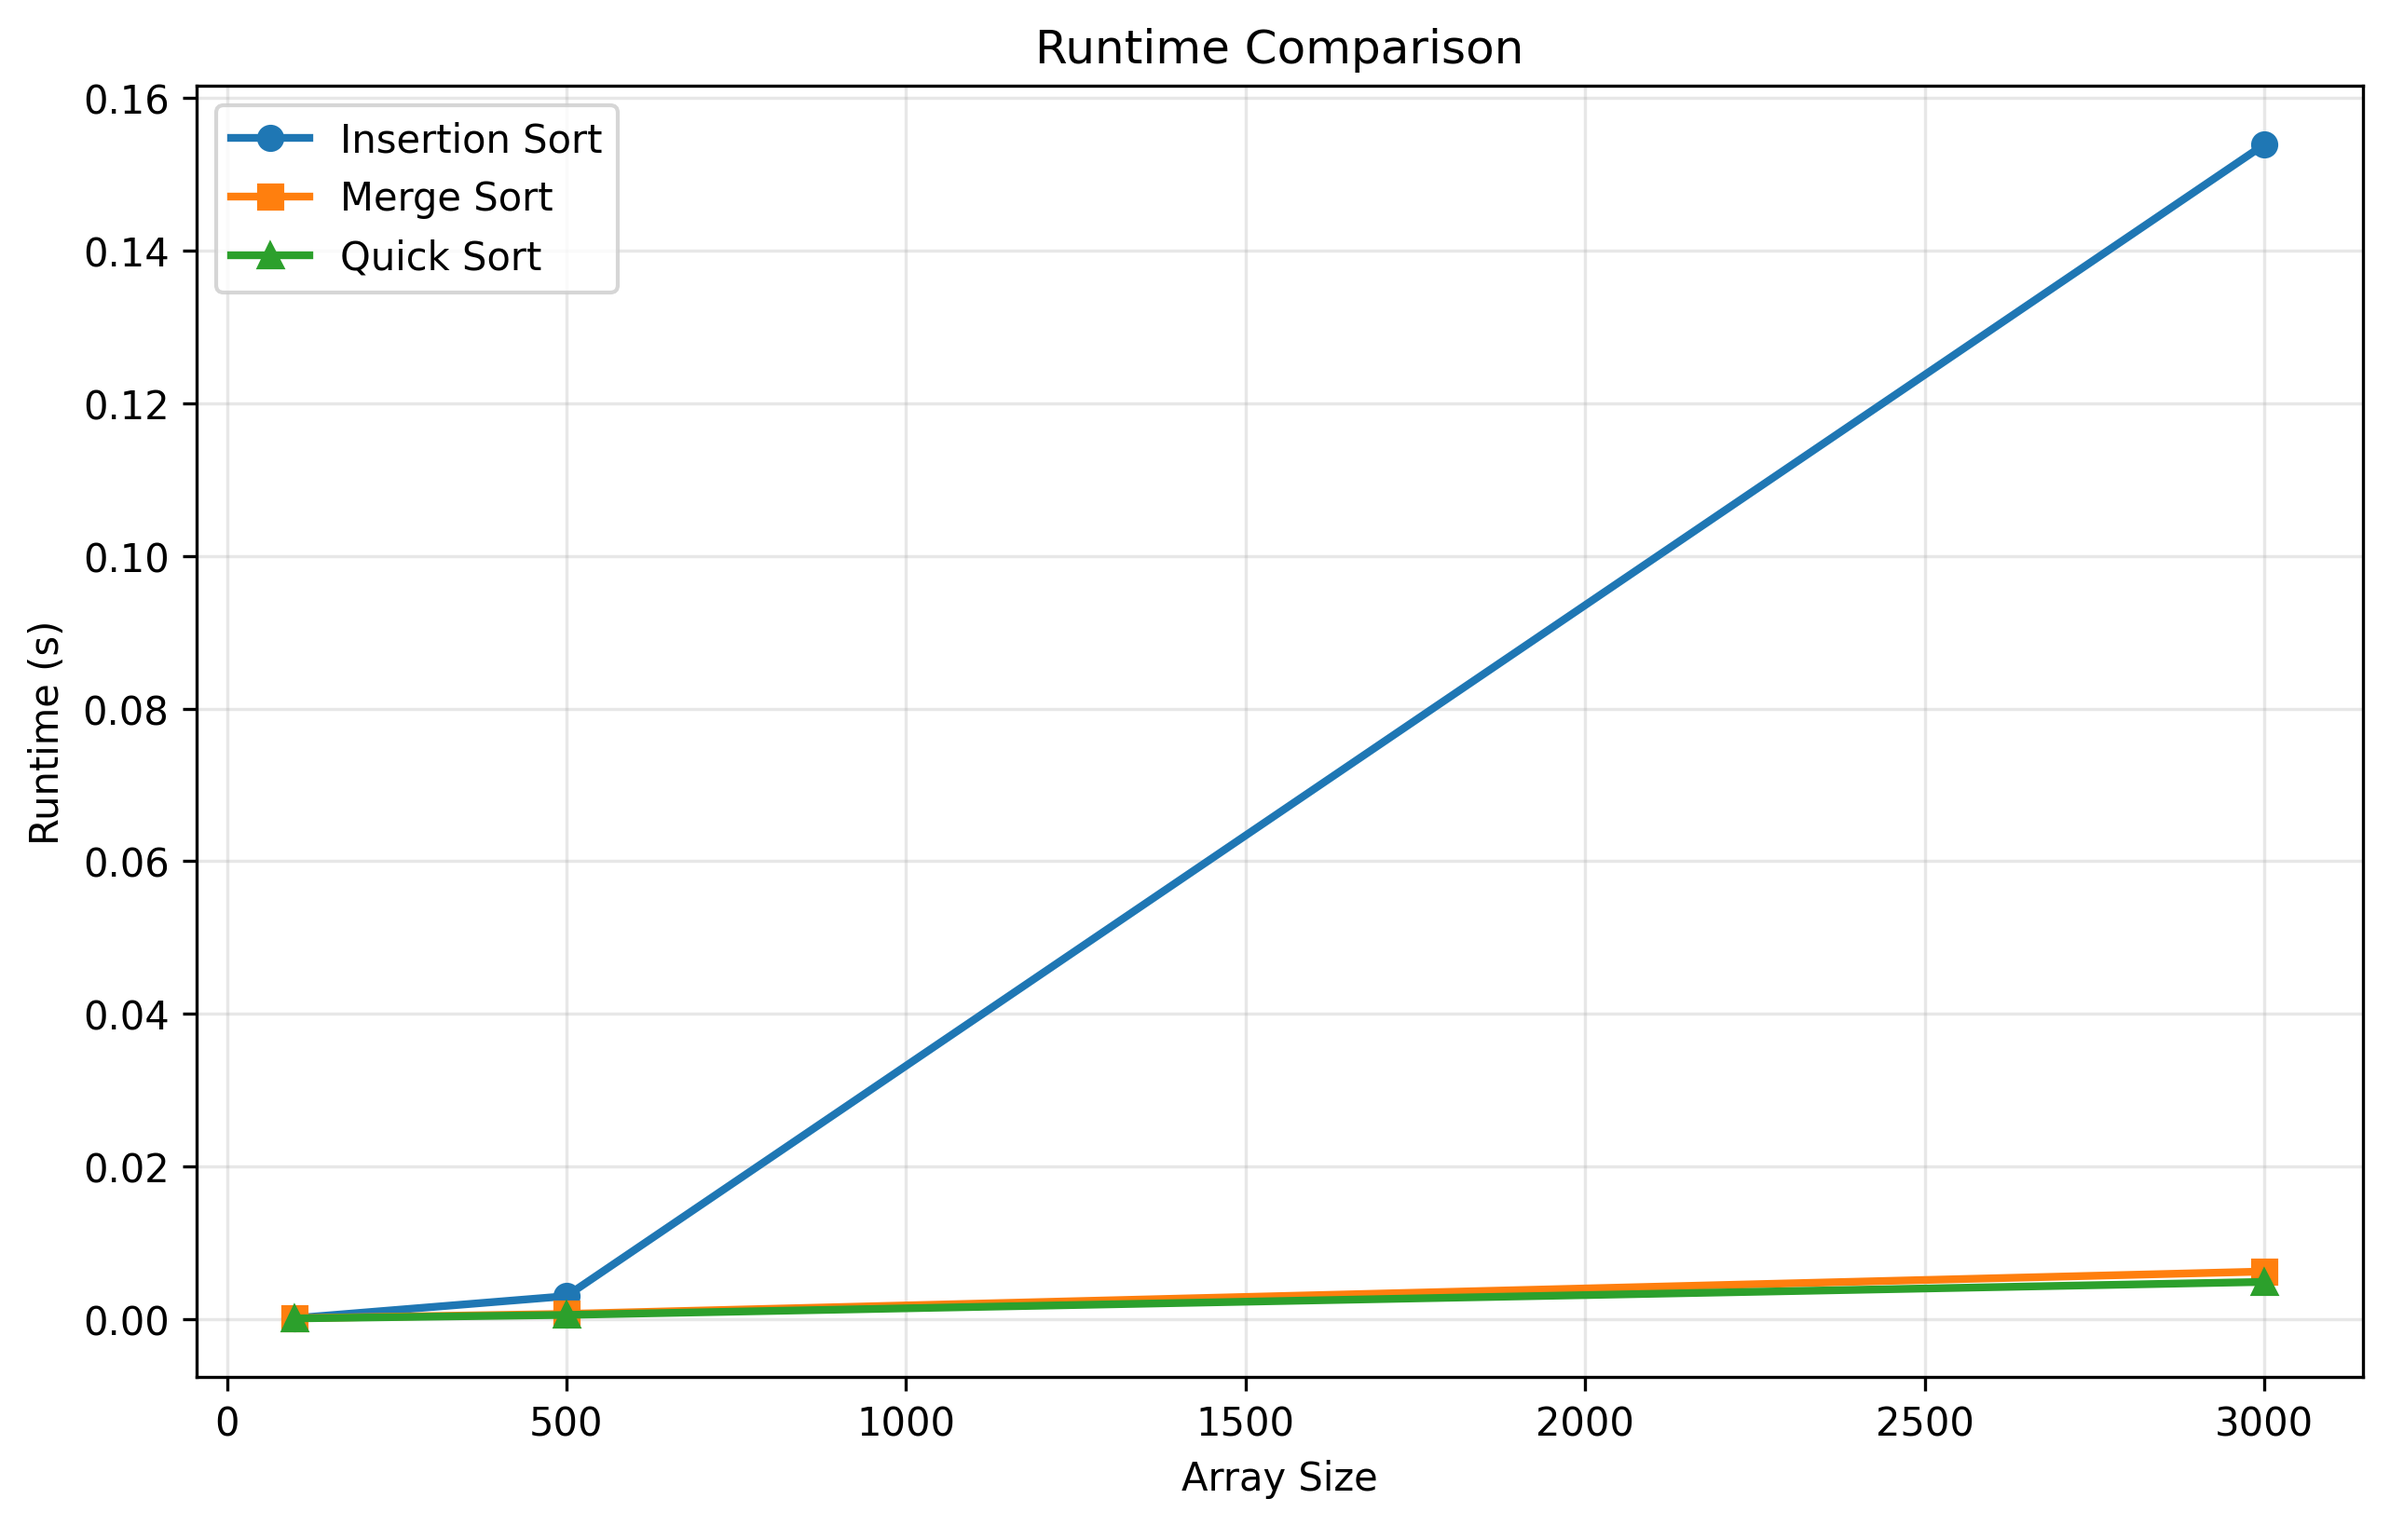
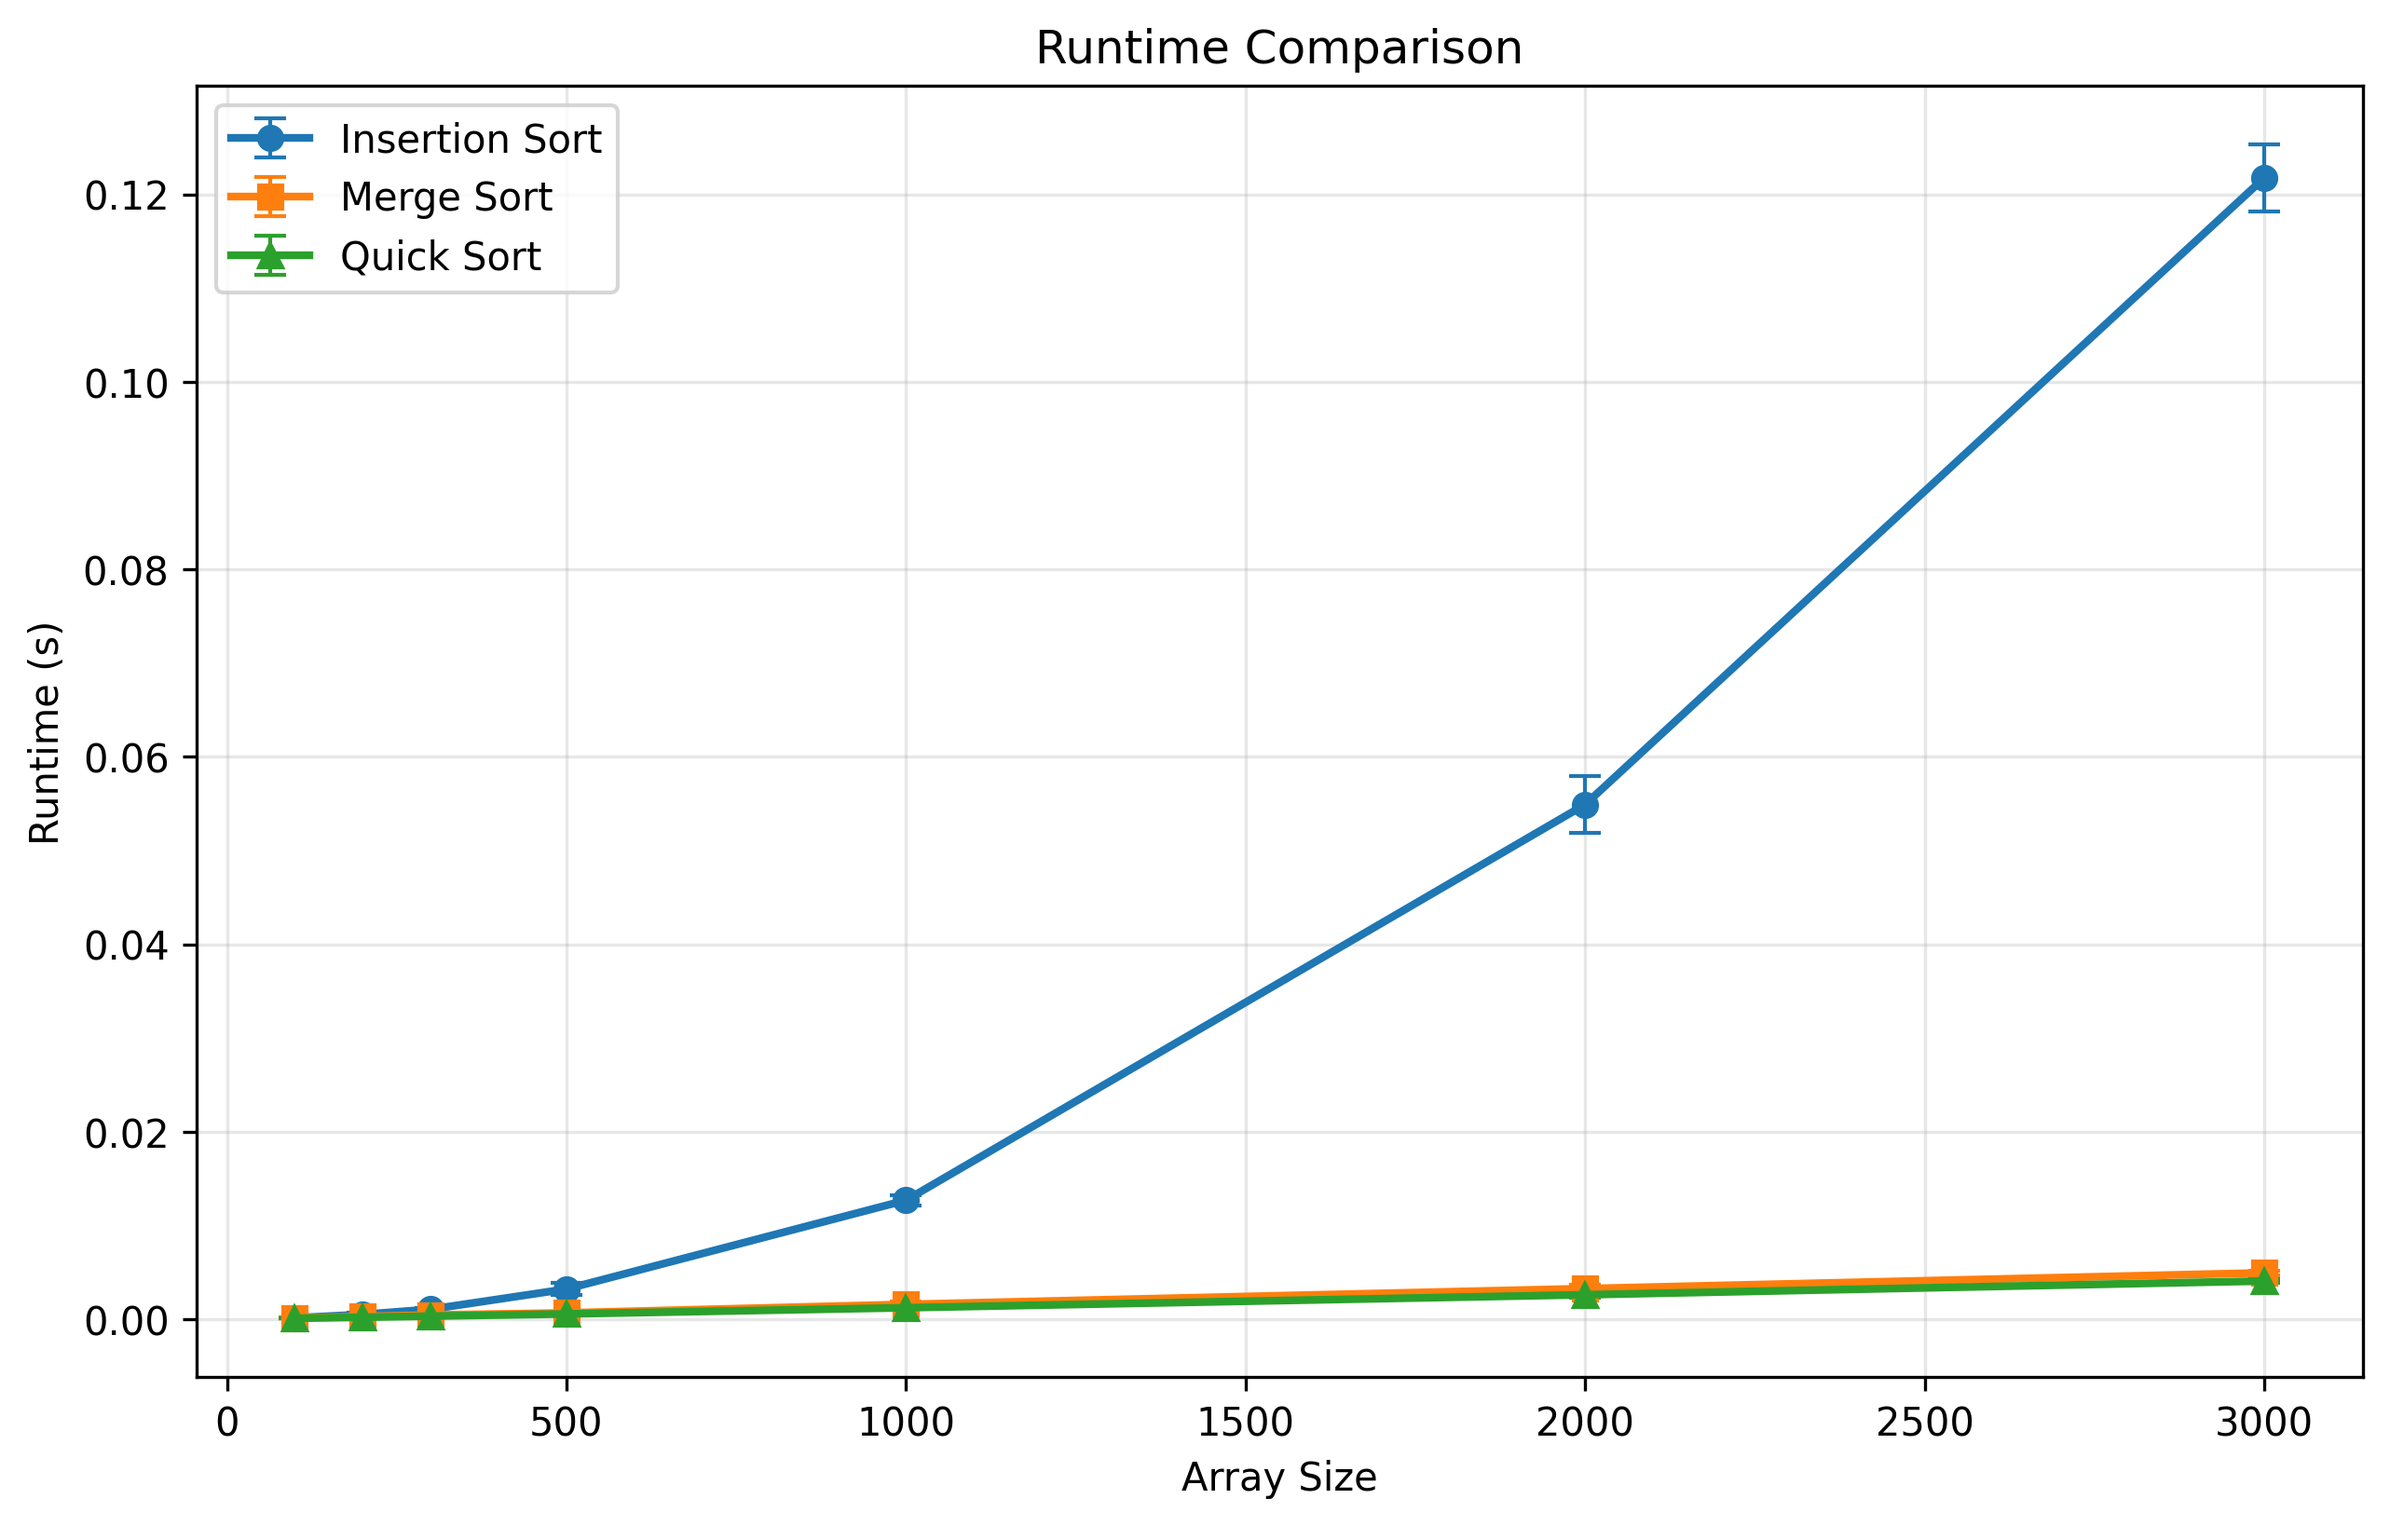
Update README and run_experiments.py for improved clarity and error handling
- Refined project description and algorithm list in README
- Enhanced command-line argument descriptions for clarity
- Updated experiment output section for better readability
- Added error bars to plots in run_experiments.py to visualize runtime variability

diff --git a/run_experiments.py b/run_experiments.py
@@ -44,12 +44,21 @@ def comparative_experiment(array_sizes: List[int], num_repetitions: int, algorit
             results[name]['stds'].append(std_time)
             print(f"  {name}: {mean_time:.4f} ± {std_time:.4f} s")
 
-    # Create plot
+    # Create plot with runtime variability shown as error bars (mean ± std).
     plt.figure(figsize=(10, 6))
     markers = ['o', 's', '^', 'd', 'v']
     for idx, (name, data) in enumerate(results.items()):
         marker = markers[idx % len(markers)]
-        plt.plot(array_sizes, data['means'], marker=marker, label=name, linewidth=2)
+        plt.errorbar(
+            array_sizes,
+            data['means'],
+            yerr=data['stds'],
+            marker=marker,
+            label=name,
+            linewidth=2,
+            capsize=4,
+            elinewidth=1
+        )
 
     plt.xlabel('Array Size')
     plt.ylabel('Runtime (s)')
@@ -108,12 +117,21 @@ def noise_experiment(array_sizes: list, noise_percentage: float, num_repetitions
             results[name]['stds'].append(std_time)
             print(f"  {name}: {mean_time:.4f} ± {std_time:.4f} s")
 
-    # Create plot
+    # Create plot with runtime variability shown as error bars (mean ± std).
     plt.figure(figsize=(10, 6))
     markers = ['o', 's', '^', 'd', 'v']
     for idx, (name, data) in enumerate(results.items()):
         marker = markers[idx % len(markers)]
-        plt.plot(array_sizes, data['means'], marker=marker, label=name, linewidth=2)
+        plt.errorbar(
+            array_sizes,
+            data['means'],
+            yerr=data['stds'],
+            marker=marker,
+            label=name,
+            linewidth=2,
+            capsize=4,
+            elinewidth=1
+        )
 
     plt.xlabel('Array Size')
     plt.ylabel('Runtime (s)')

diff --git a/README.md b/README.md
@@ -2,15 +2,11 @@
 
 **Student Name:** Kfir Goldring
 
-This project implements and compares the performance of various sorting algorithms across different array sizes and data conditions.
+This project implements multiple sorting algorithms and benchmarks runtime behavior under different input conditions. The analysis in this README focuses on the selected algorithms:
 
-## Selected Algorithms
-
-1. **Bubble Sort** - O(n²) comparison-based algorithm
-2. **Selection Sort** - O(n²) comparison-based algorithm
-3. **Insertion Sort** - O(n²) comparison-based algorithm, efficient for nearly-sorted data
-4. **Merge Sort** - O(n log n) divide-and-conquer algorithm
-5. **Quick Sort** - O(n log n) average case divide-and-conquer algorithm
+- **Insertion Sort**
+- **Merge Sort**
+- **Quick Sort**
 
 ## Installation
 
@@ -34,106 +30,115 @@ python run_experiments.py -a <algorithm_ids> -s <array_sizes> -e <experiment_typ
   - `3` = Insertion Sort
   - `4` = Merge Sort
   - `5` = Quick Sort
-
 - `-s, --sizes`: Array sizes to test (space-separated integers)
-
 - `-e, --experiment`: Experiment type
-  - `0` = Experiment with random data (unsorted)
+  - `0` = Random data (unsorted)
   - `1` = Nearly sorted with 5% noise
   - `2` = Nearly sorted with 20% noise
+- `-r, --repetitions`: Number of repetitions for each test . results are averaged to reduce variability. 
+This number has to be an integer!
 
-- `-r, --repetitions`: Number of repetitions for each test
+###Running Examples  
 
-### Examples
-
-**Example 1**: Compare Insertion, Merge, and Quick Sort on arrays of sizes 100, 500, and 3000 with random data, 20 repetitions:
+Compare **Insertion, Merge, and Quick Sort** on random data:
 ```bash
-python run_experiments.py -a 3 4 5 -s 100 500 3000 -e 0 -r 20
- 
- 
-**Example 2**: Compare all algorithms on nearly-sorted data (5% noise):
-```bash
-python run_experiments.py -a 1 2 3 4 5 -s 100 500 1000 5000 -e 1 -r 10
+python run_experiments.py -a 3 4 5 -s 100 500 3000 -e 0 -r 20 
+##
+
 ```
- 
+
+Compare **Insertion, Merge, and Quick Sort** on nearly-sorted data:
+```bash
+python run_experiments.py -a 3 4 5 -s 100 500 1000 5000 -e 1 -r 10
+python run_experiments.py -a 3 4 5 -s 100 500 1000 5000 -e 2 -r 10
+```
 
 ## Output
 
 The program generates:
-- Console output showing mean runtime ± standard deviation for each algorithm at each array size
+
+- Console output with mean runtime ± standard deviation for each algorithm at each array size
 - A plot saved as:
-  - `result1.png` for comparative experiments (experiment type 0)
-  - `result2.png` for noise experiments (experiment types 1 and 2)
+  - `result1.png` for experiment type `0`
+  - `result2.png` for experiment types `1` and `2`
 
 ## Project Structure
 
-```
+```text
 .
 ├── sorting_algorithms.py   # Implementation of all sorting algorithms
 ├── run_experiments.py      # Experiment runner with CLI interface
 ├── requirements.txt        # Python dependencies
-└── README.md              # This file
+└── README.md               # This file
 ```
 
 ## Experiments
 
 ### Comparative Experiment (Type 0)
-Tests algorithms on randomly generated arrays to measure performance on unsorted data.
+Tests algorithms on randomly generated arrays.
 
 ### Noise Experiments (Types 1 and 2)
-Tests algorithms on nearly-sorted arrays with controlled amounts of disorder:
+Tests algorithms on nearly-sorted arrays with controlled disorder:
+
 - **5% noise**: Randomly swaps 5% of elements in a sorted array
 - **20% noise**: Randomly swaps 20% of elements in a sorted array
 
----
-
-## Experimental Results
+## Experimental Results  
 
 ### Result 1: Comparative Experiment (Random Data)
+Array sizes: 100, 200, 300, 500, 1000, 2000, 3000
+Number of repetitions:20
 
 ![result1.png](result1.png)
 
-**Explanation:**
+**Measured Results (Random Data):**
 
-This experiment compares the performance of all five sorting algorithms on randomly generated arrays of varying sizes. The results clearly demonstrate the difference between O(n²) and O(n log n) algorithms:
+| Array Size | Insertion Sort (s) | Merge Sort (s) | Quick Sort (s) |
+|---|---:|---:|---:|
+| 100  | 0.0001 ± 0.0000 | 0.0001 ± 0.0000 | 0.0001 ± 0.0000 |
+| 200  | 0.0005 ± 0.0002 | 0.0003 ± 0.0001 | 0.0002 ± 0.0000 |
+| 300  | 0.0011 ± 0.0001 | 0.0004 ± 0.0001 | 0.0003 ± 0.0000 |
+| 500  | 0.0032 ± 0.0006 | 0.0007 ± 0.0000 | 0.0006 ± 0.0001 |
+| 1000 | 0.0127 ± 0.0006 | 0.0016 ± 0.0003 | 0.0012 ± 0.0001 |
+| 2000 | 0.0549 ± 0.0030 | 0.0033 ± 0.0005 | 0.0026 ± 0.0003 |
+| 3000 | 0.1217 ± 0.0036 | 0.0049 ± 0.0002 | 0.0041 ± 0.0002 |
 
-- **O(n²) algorithms (Bubble, Selection, Insertion):** Show quadratic growth in runtime as array size increases.  
+**Analysis  :**
 
-- **O(n log n) algorithms (Merge, Quick):** Display significantly better scalability, maintaining reasonable performance even on large arrays. These algorithms show the characteristic logarithmic growth pattern, making them suitable for production use.
+- **Insertion Sort:** Runtime grows rapidly as input size increases, matching expected quadratic behavior on random data.
+- **Merge Sort:/Quick Sort** Scale much better than insertion sort, matching lower theoretical runtime complexity  `O(n log n)`.
+ 
 
-- As expceted , the performance difference between o(n²) and o(n) widens dramatically as array size increases. 
-
----
 
 ### Result 2: Nearly-Sorted Data Experiment
+**5% Noise:**
+Array sizes: 100, 200, 300, 500, 1000, 2000, 3000
+Number of repetitions:20
 
 ![result2.png](result2.png)
 
-**Explanation:**
+**Measured Results (5% Noise):**
 
-This experiment tests algorithm performance on nearly-sorted arrays with controlled noise levels (5% or 20% random swaps).
+| Array Size | Insertion Sort (s) | Merge Sort (s) | Quick Sort (s) |
+|---|---:|---:|---:|
+| 100  | 0.0000 ± 0.0000 | 0.0001 ± 0.0000 | 0.0001 ± 0.0000 |
+| 200  | 0.0001 ± 0.0000 | 0.0003 ± 0.0001 | 0.0002 ± 0.0000 |
+| 300  | 0.0002 ± 0.0001 | 0.0005 ± 0.0001 | 0.0003 ± 0.0001 |
+| 500  | 0.0005 ± 0.0002 | 0.0007 ± 0.0002 | 0.0004 ± 0.0001 |
+| 1000 | 0.0017 ± 0.0002 | 0.0013 ± 0.0000 | 0.0008 ± 0.0000 |
+| 2000 | 0.0069 ± 0.0010 | 0.0028 ± 0.0002 | 0.0018 ± 0.0002 |
+| 3000 | 0.0157 ± 0.0023 | 0.0046 ± 0.0008 | 0.0028 ± 0.0005 |
 
-**How Running Times Changed:**
+**Analysis (Insertion, Merge, Quick):**
+Comparing the results of the three algorithms,with the first experiment on random data we can see that:
 
-- **Insertion Sort:** Shows **significant improvement** on nearly-sorted data compared to random data. This is because insertion sort's best-case performance is O(n) when data is already sorted or nearly sorted. Each element requires minimal comparisons and shifts.
+- **Insertion Sort:** Improves significantly on nearly-sorted arrays because it is adaptive and approaches linear-like behavior when disorder is small, where for a sorted array(0 noise) it has linear time complexity `O(n)`.As array size increases,the disorder appears to make higher impact on the runtime which approaches `O(n^2)` behavior.
+- **Merge Sort:** Performance remains stable, with limited sensitivity to initial ordering. Results on both experiments appear to coincide with one another within the margin of error.
+- **Quick Sort:** Remains efficient, with a slight improvement on nearly-sorted arrays.
 
-- **Bubble Sort:** Also shows **moderate improvement** on nearly-sorted data, though less dramatic than insertion sort. The early termination optimization (when no swaps occur) helps reduce unnecessary passes.
-
-- **Selection Sort:** Shows **minimal to no improvement** on nearly-sorted data. This algorithm always performs O(n²) comparisons regardless of initial order, as it must scan the entire unsorted portion to find the minimum element.
-
-- **Merge Sort & Quick Sort:** Show **relatively consistent performance** across both random and nearly-sorted data. These divide-and-conquer algorithms don't benefit significantly from initial ordering, maintaining their O(n log n) complexity.
-
-**Why These Changes Occur:**
-
-The key difference lies in how algorithms exploit existing order:
-- **Adaptive algorithms** (Insertion, Bubble) can skip unnecessary operations when data is partially sorted
-- **Non-adaptive algorithms** (Selection) perform the same operations regardless of input order
-- **Divide-and-conquer algorithms** (Merge, Quick) partition data systematically without considering initial order
- 
-This demonstrates why insertion sort is often preferred for small or nearly-sorted datasets despite its O(n²) worst-case complexity.
-
----
+Near-sorted inputs reduce the practical gap between insertion sort and the `O(n log n)` algorithms at small sizes, but merge and quick sort still provide stronger scalability as size grows.
 
 ## Goals
 
-Illustrate the difference in growth rate between slower and faster algorithms, and compare runtime with theoretical complexity expectations.
+- Compare practical runtime trends with theoretical complexity.
+- Show when insertion sort is advantageous (nearly-sorted/smaller inputs) versus when merge and quick sort are preferable (larger inputs).
